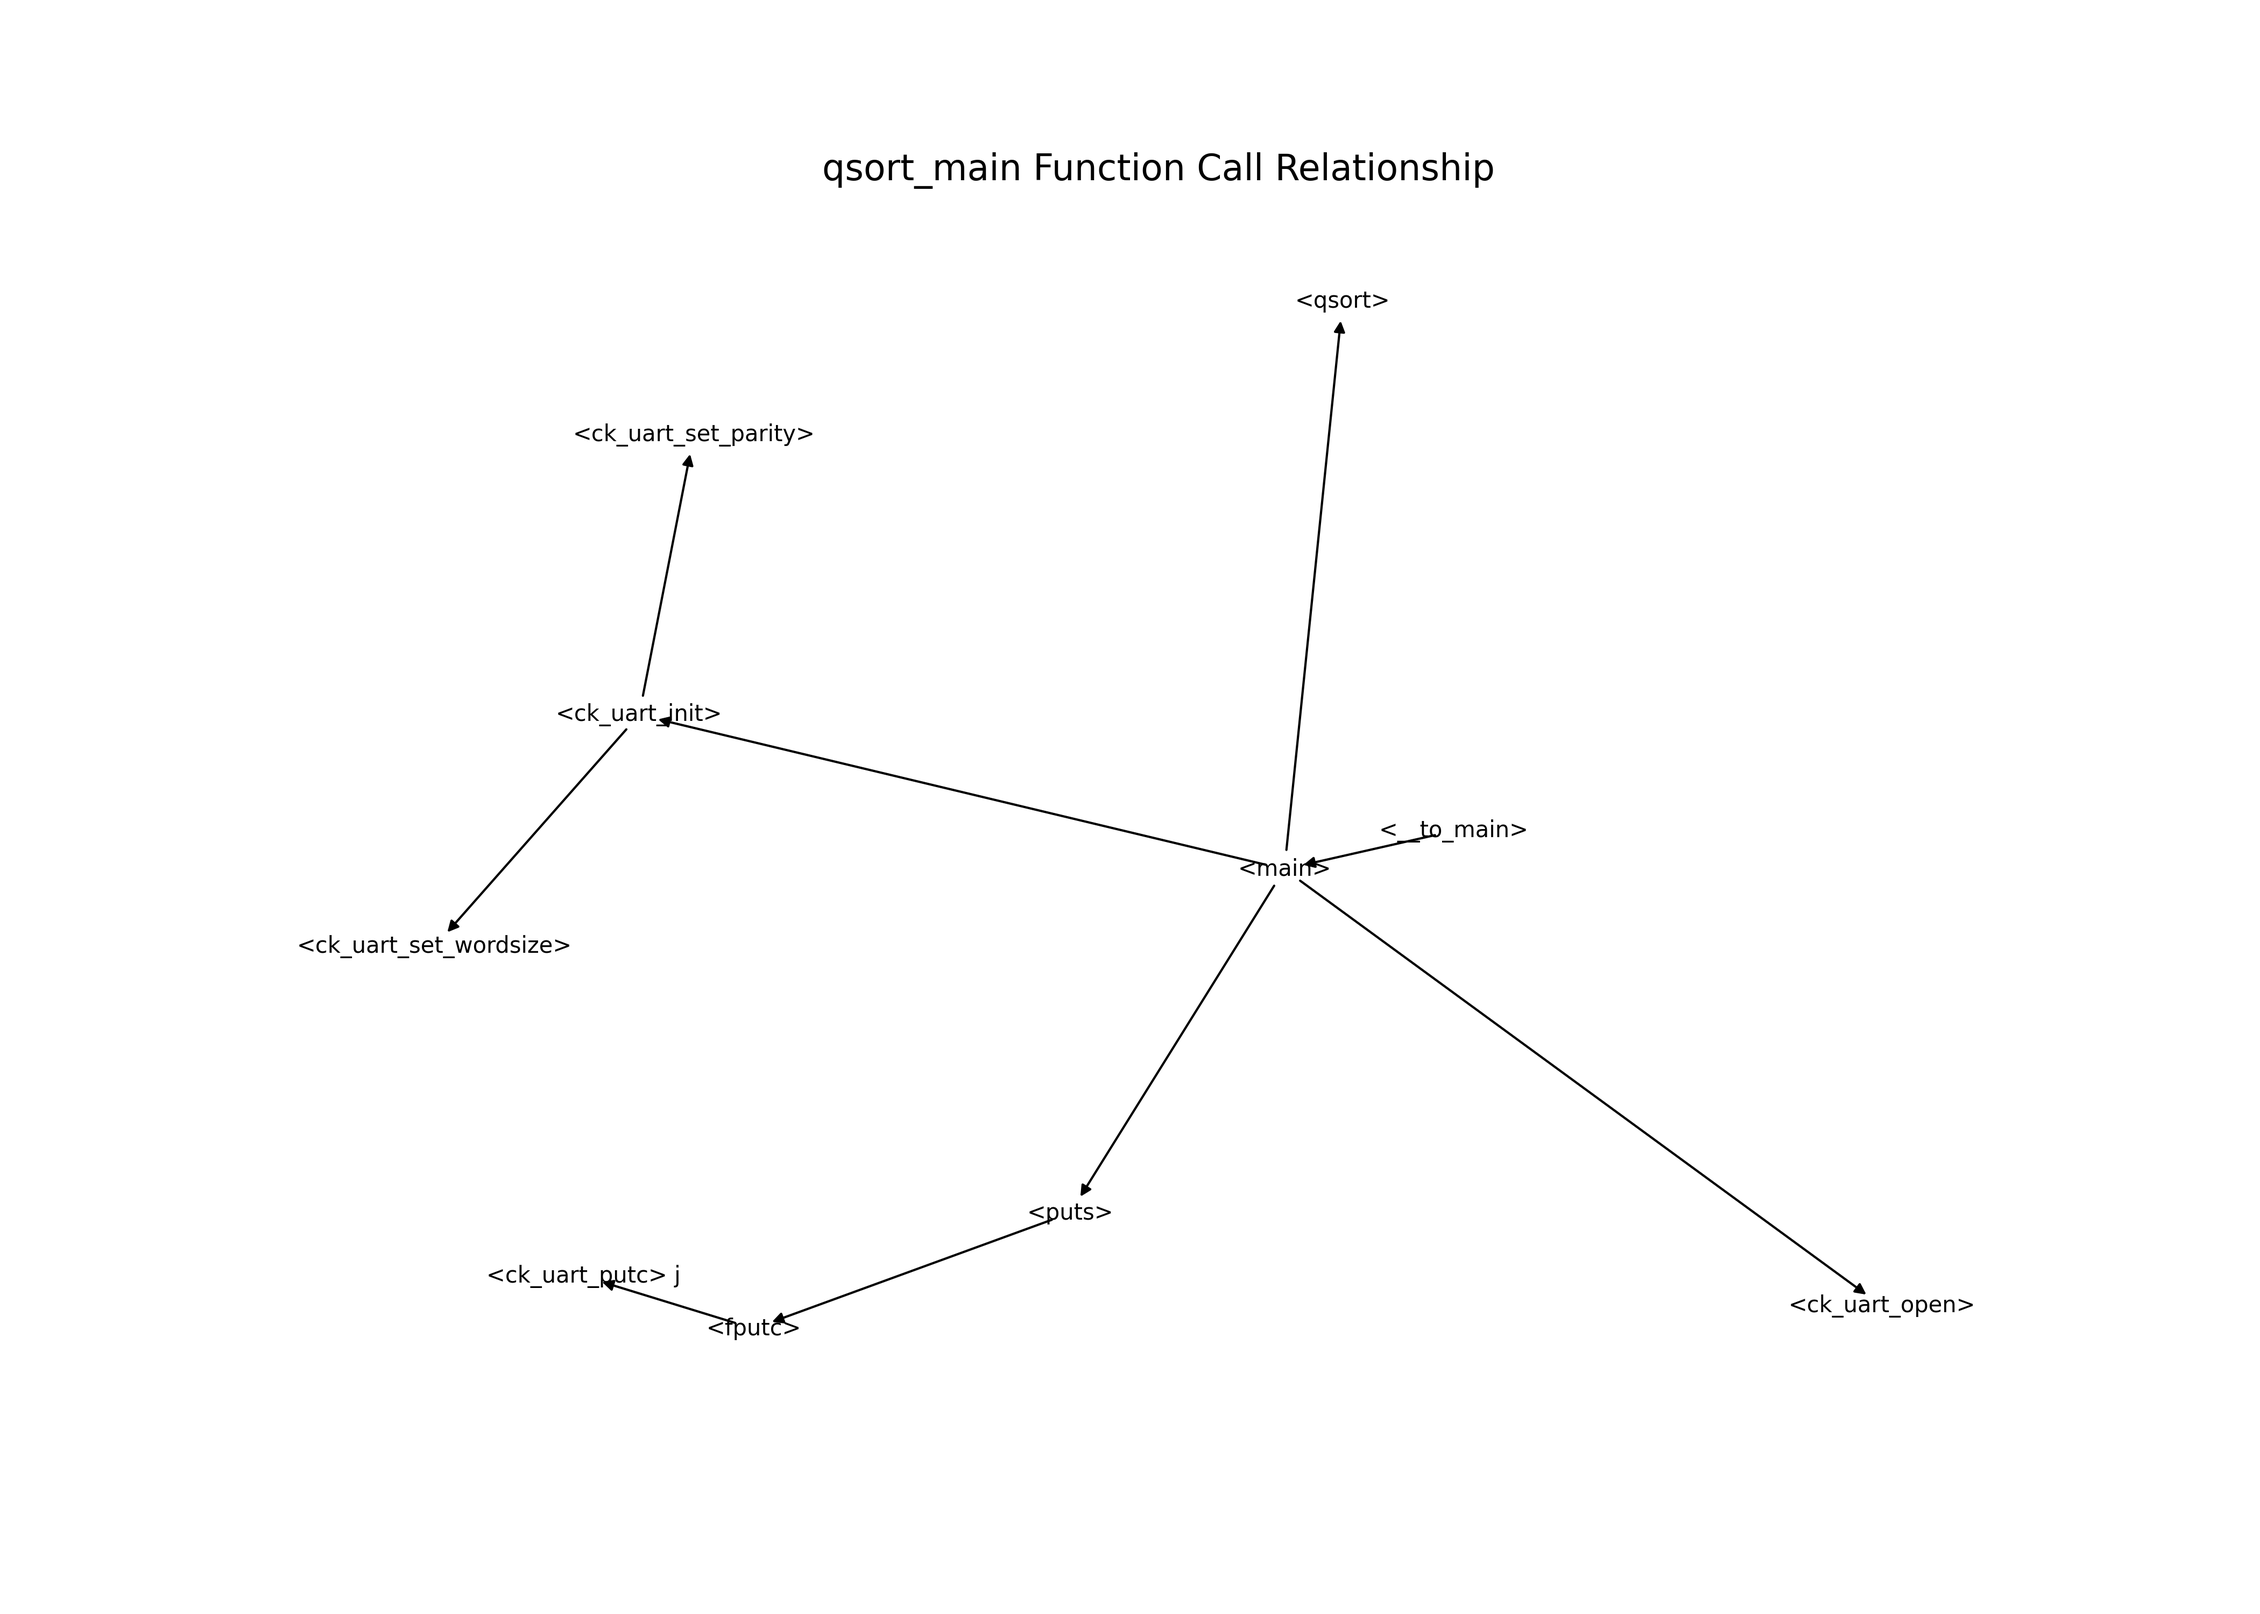
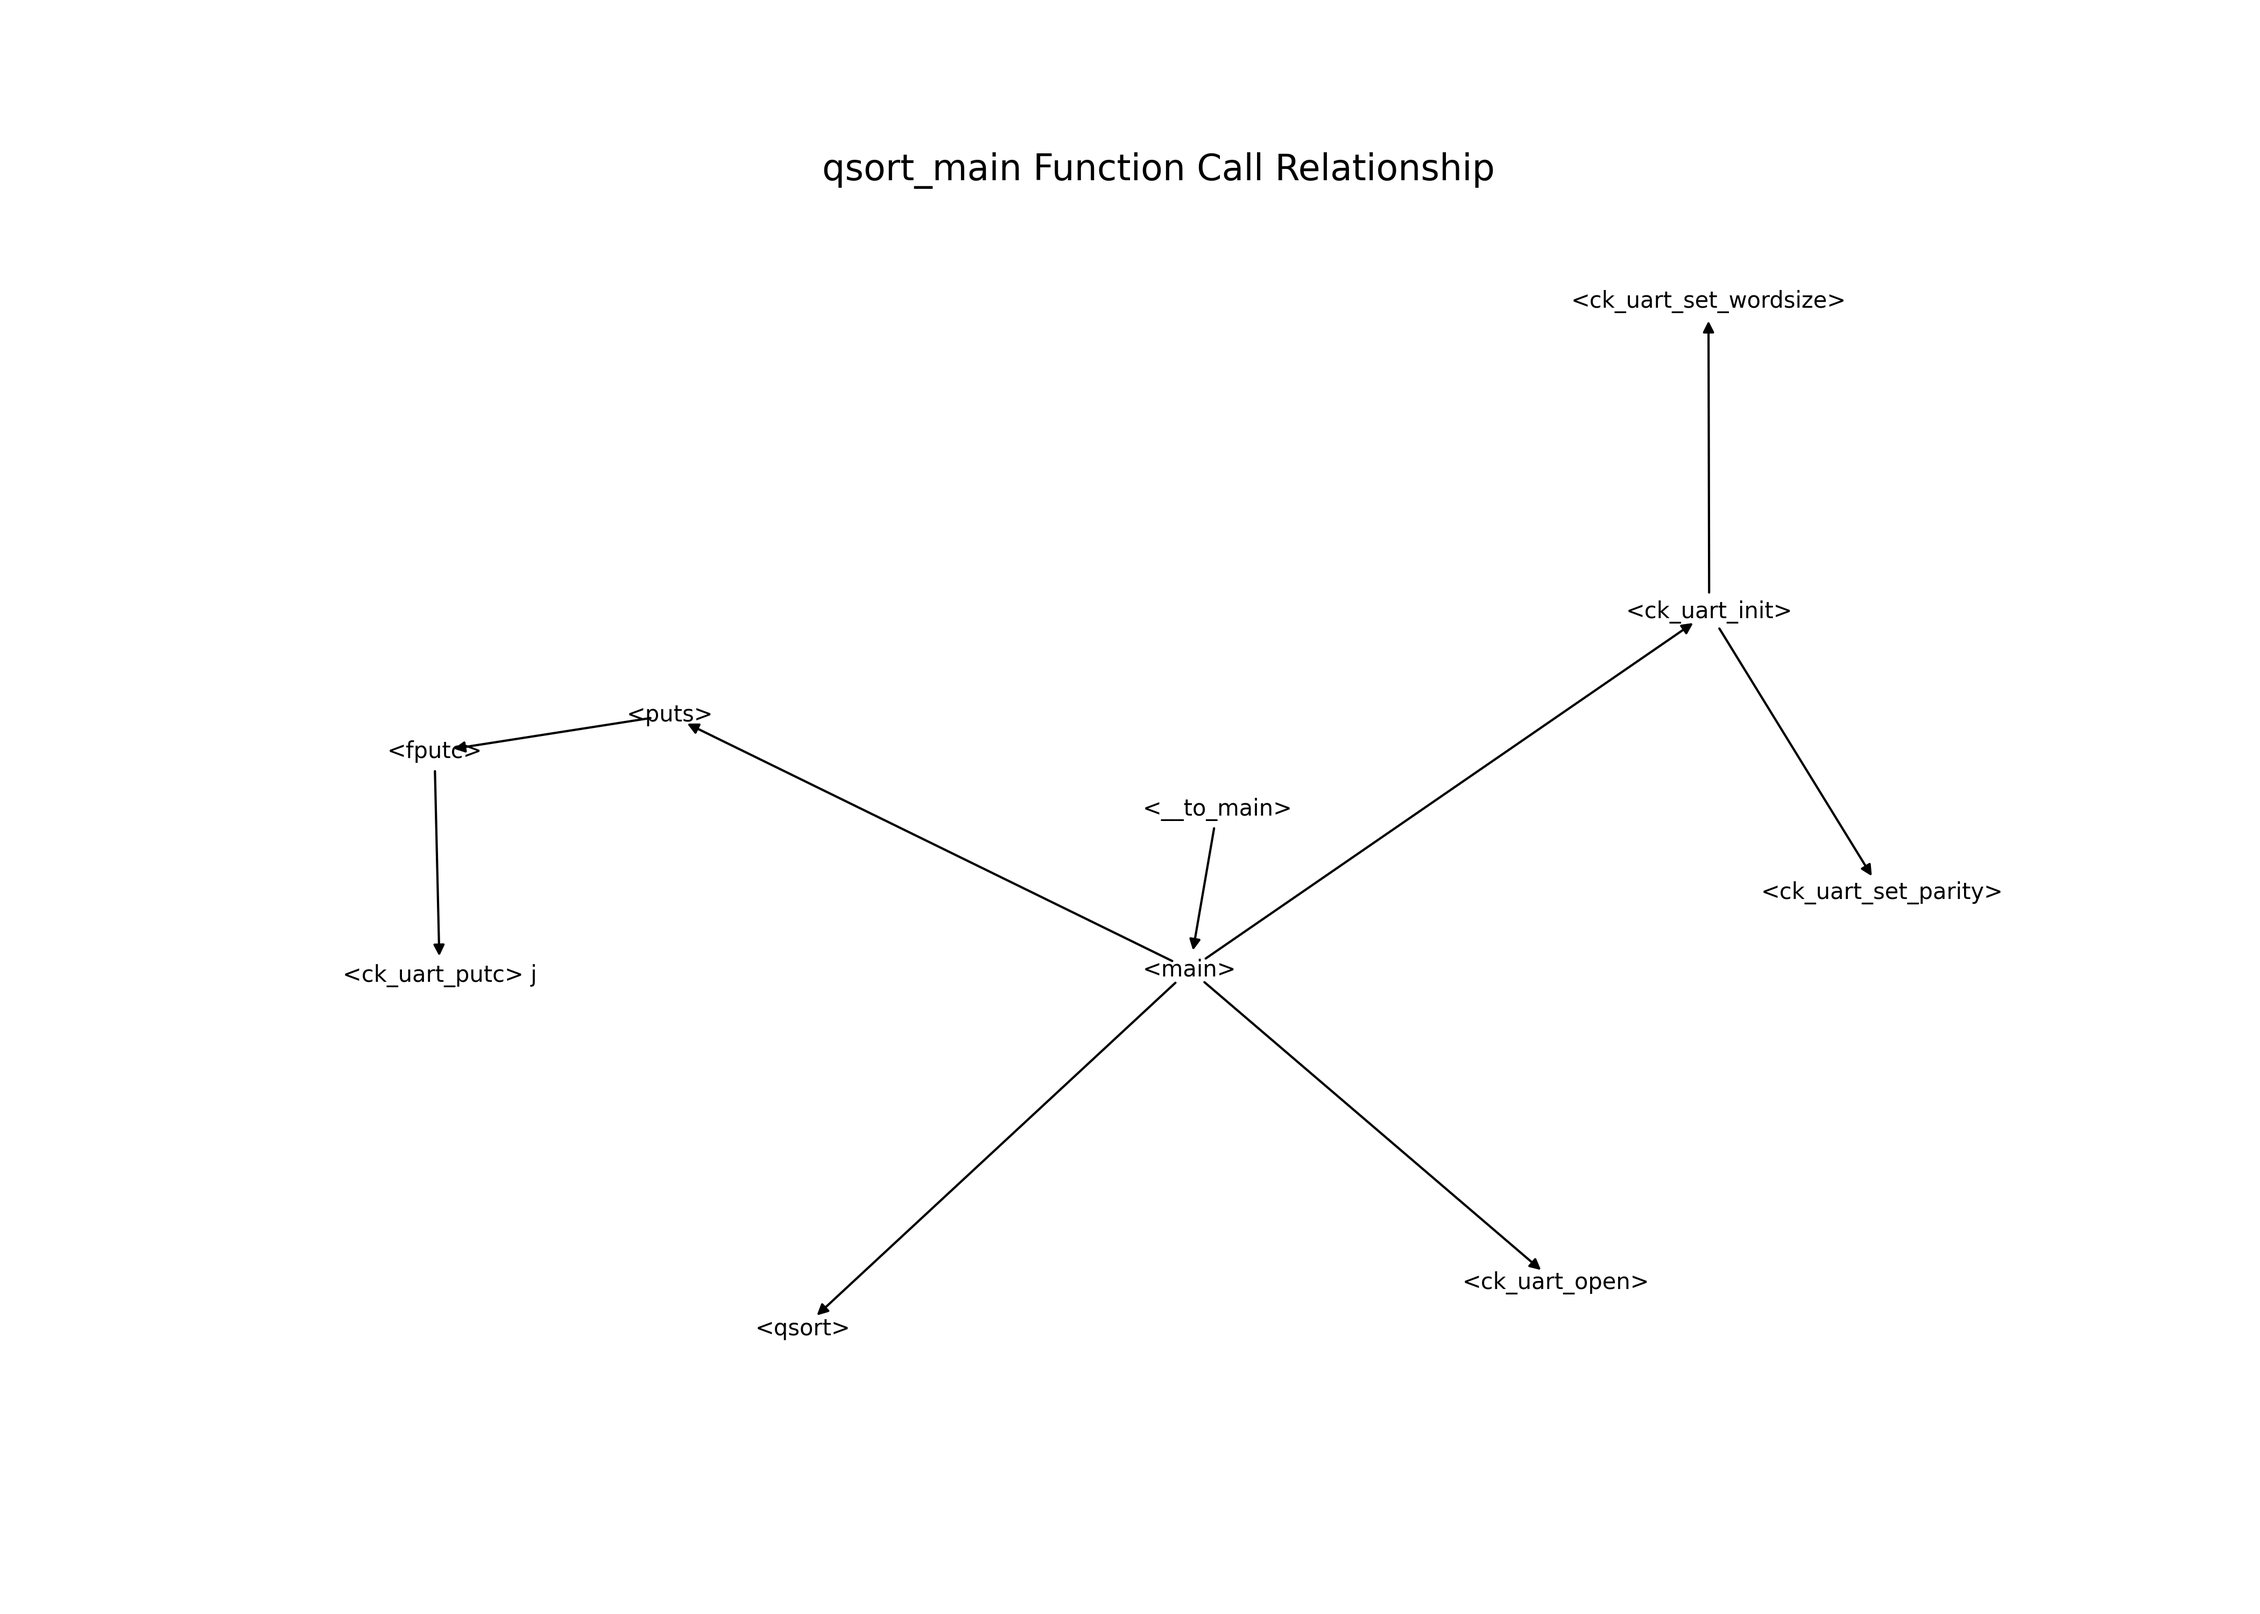
18/7/23 second commit

diff --git a/src/Analyze.py b/src/Analyze.py
@@ -1,7 +1,7 @@
 '''
 Author: Taurus052
 Date: 2023-07-14 15:34:43
-LastEditTime: 2023-07-18 10:49:48
+LastEditTime: 2023-07-18 19:28:40
 '''
 
 import os
@@ -414,9 +414,16 @@ def get_function_call_relationship(function_call_instr, function_addr_ranges, ou
     node_label_font_size = 10
     plt.subplots(figsize = (14,10))
 
-    pos = nx.spring_layout(G, k=1, iterations=120)
+    pos = nx.spring_layout(G, k=1.5, iterations=150)
 
-    nx.draw_networkx_nodes(G, pos, node_shape='', node_color='lightblue', edgecolors='black', linewidths=1)
+    # # Calculate the maximum label length
+    # max_label_length = max(len(label) for label in node_labels.values())
+
+    # # Calculate the desired node size based on the maximum label length
+    # node_size = 200 * max_label_length
+    
+    
+    # nx.draw_networkx_nodes(G, pos, node_shape='o', node_color='none', edgecolors='black', linewidths=1)
     nx.draw_networkx_labels(G, pos, labels=node_labels, font_size=node_label_font_size)
     nx.draw_networkx_edges(G, pos, arrows=True)
     
